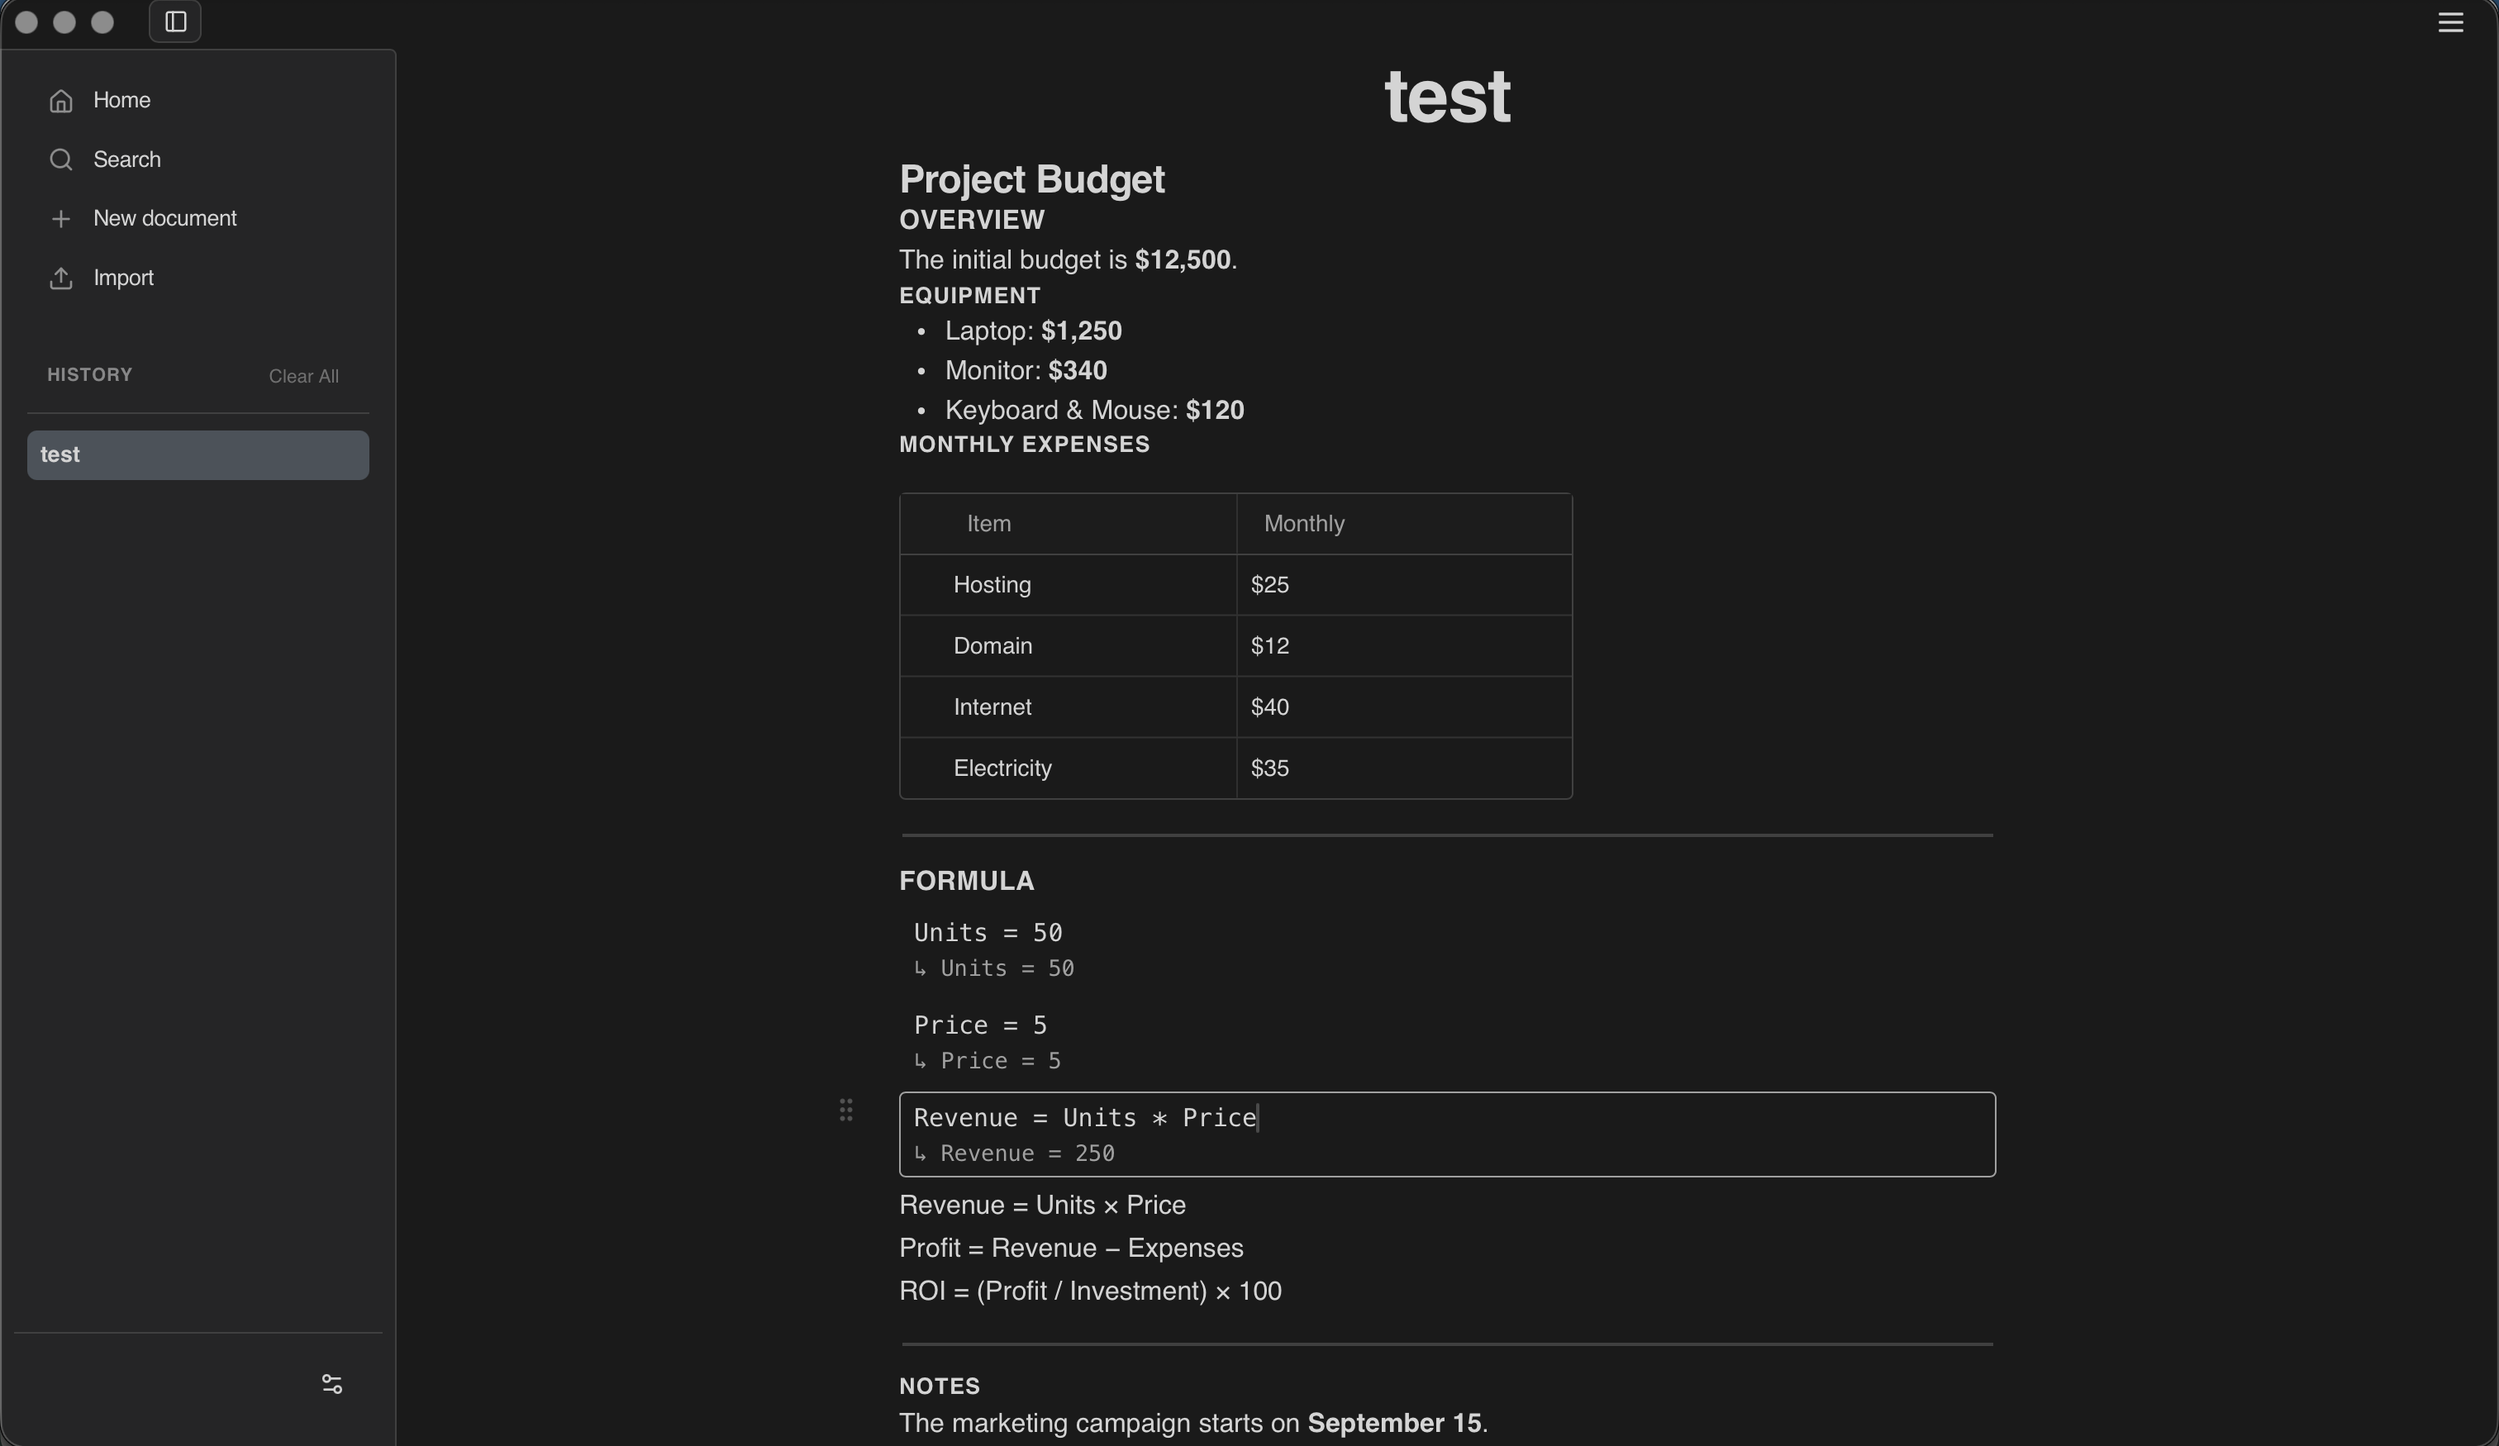
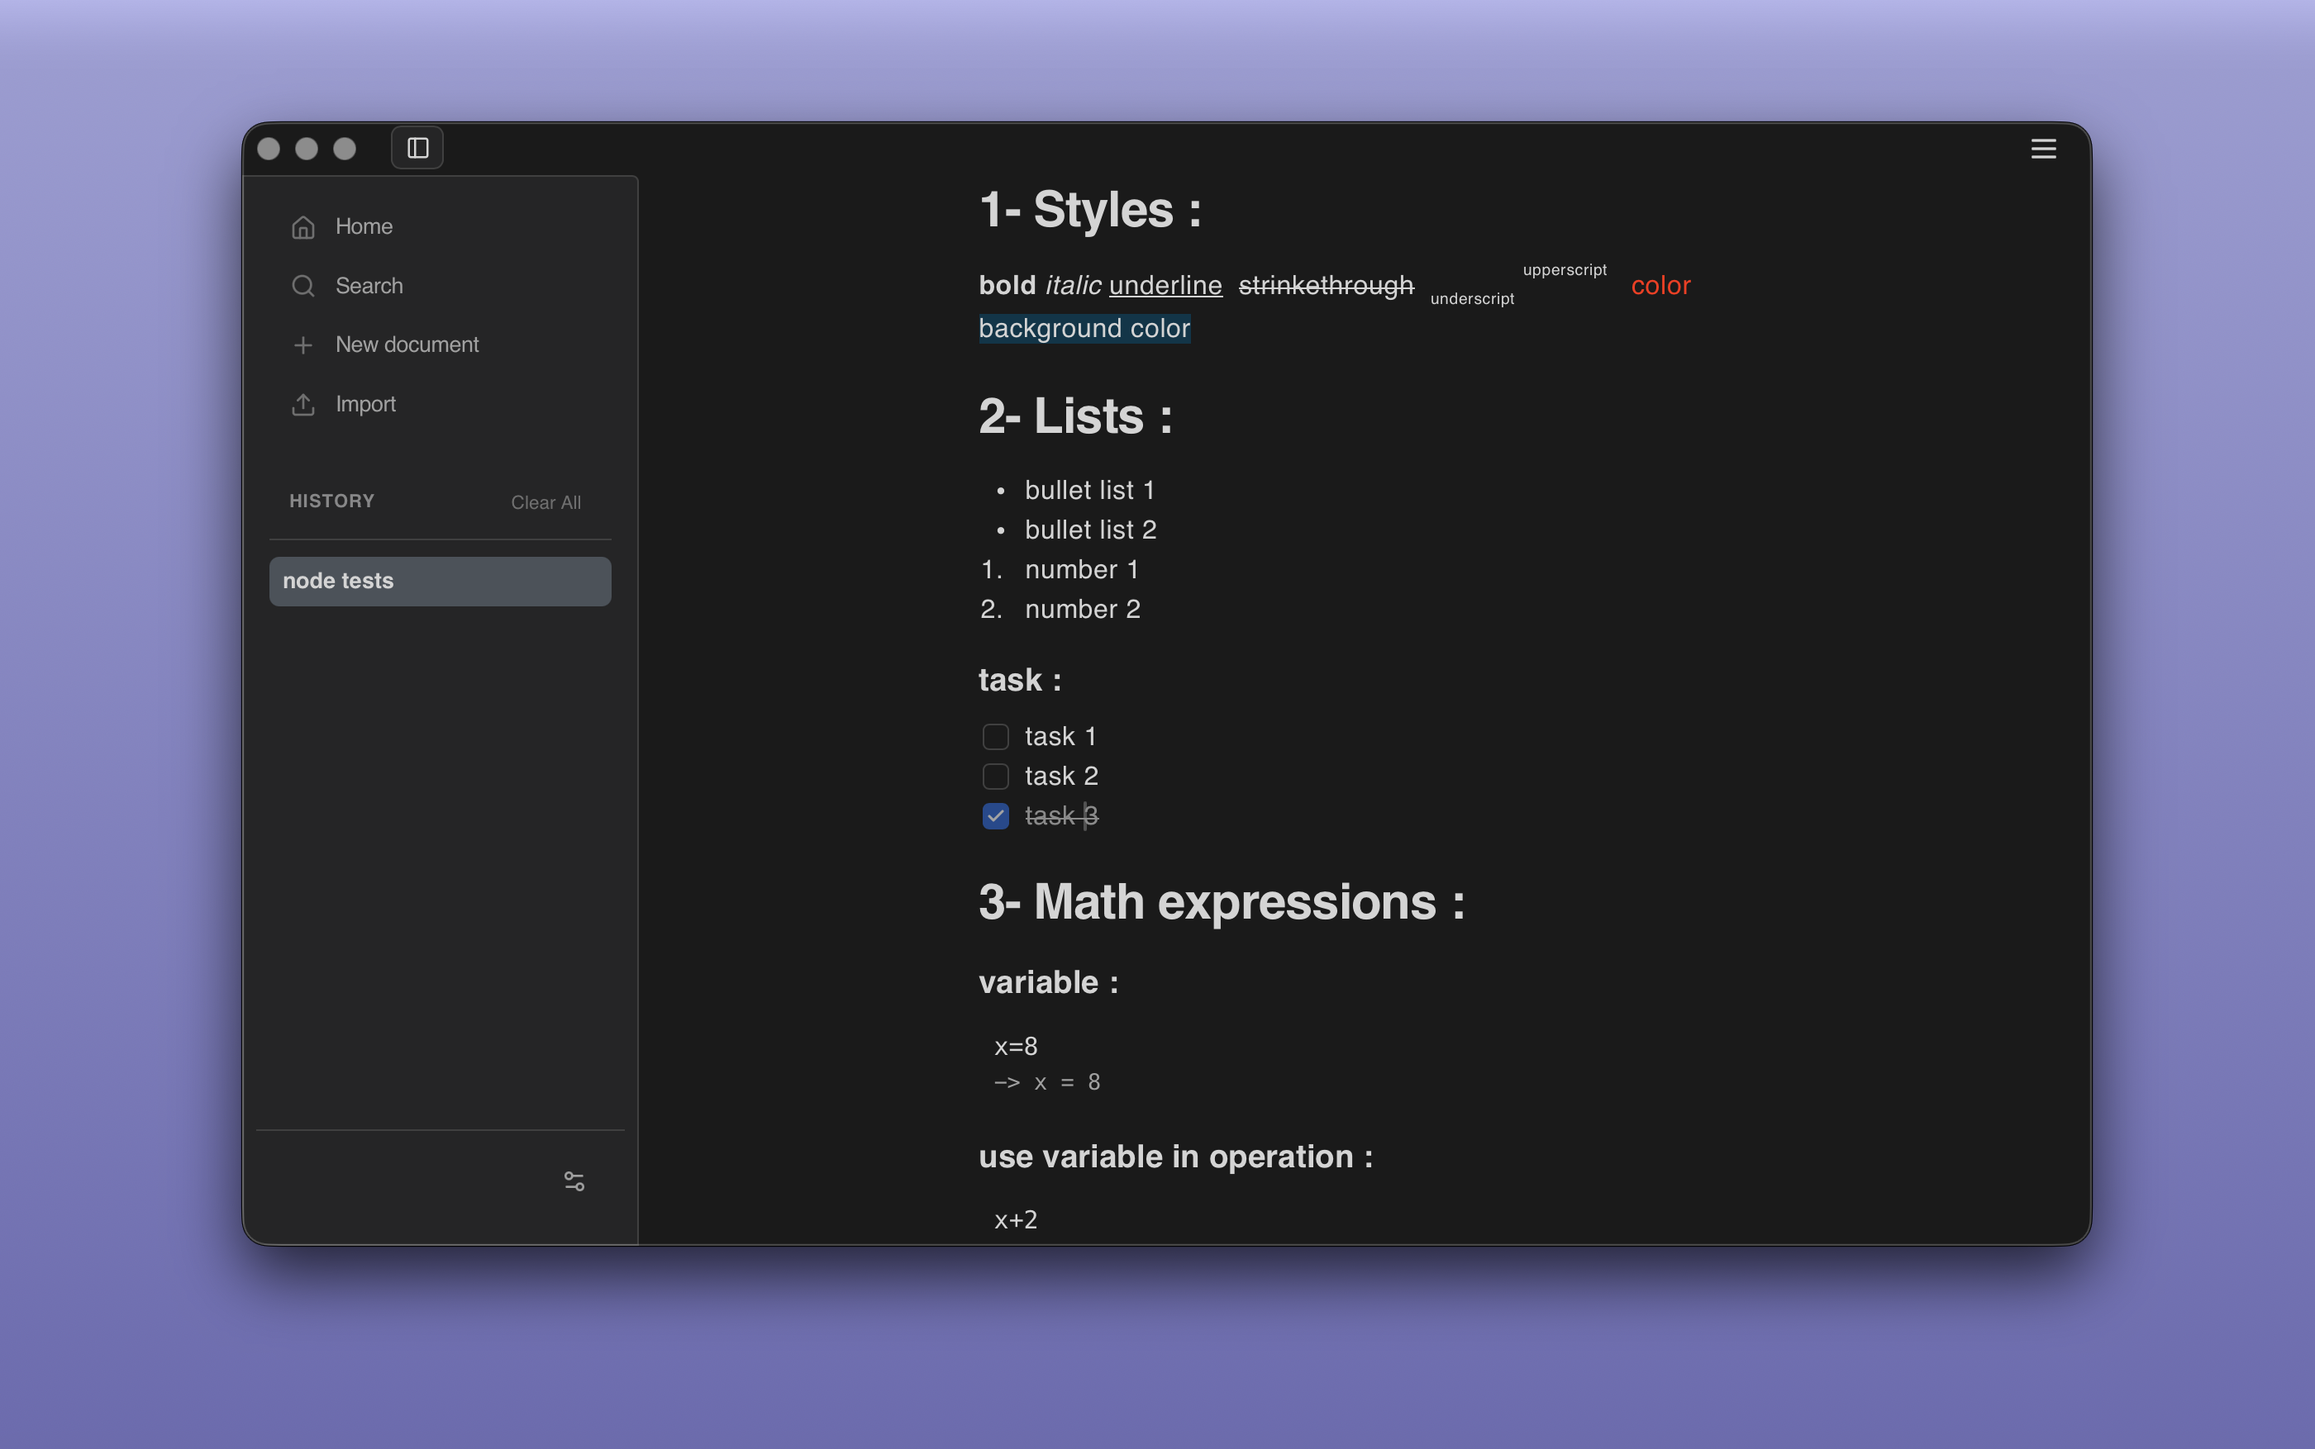
update readme

diff --git a/README.md b/README.md
@@ -1,9 +1,5 @@
 <p align="center">
-  <img src="assets/logo_1024.png" alt="ANQL Icon" height="60" />
-</p>
-
-<p align="center">
-  The intuitive workspace where ideas become actions.
+  <img src="assets/logo_1024.png" alt="ANQL Icon" height="120" />
 </p>
 
 <p align="center">
@@ -12,7 +8,7 @@
 </p>
 
 <p align="center">
-  <a href="#overview">Overview</a> | <a href="#gallery">Gallery</a> | <a href="#features">Features</a> | <a href="#tech-stack">Tech Stack</a> | <a href="#development">Development</a>
+  <a href="#overview">Overview</a> | <a href="#features">Features</a> | <a href="#development">Development</a> | <a href="#platform-support">Platform Support</a> | <a href="#community">Community</a>
 </p>
 
 <br />
@@ -23,7 +19,7 @@ ANQL is a visual workspace designed for productive work. Ideal for professionals
 
 ![Overview](assets/overview.png)
 
-## Gallery
+### Gallery
 
 <p align="center">
   <img src="assets/overview 1.png" alt="ANQL Overview 1" width="45%" />
@@ -70,25 +66,19 @@ ANQL is currently in active development and may be unstable at times. New featur
 
 **Upcoming Focus**: We are placing special emphasis on enhancing the Math node to support advanced calculations, statistical analysis, plotting, and graph generation - all while maintaining the seamless note-taking experience that makes ANQL a productive workspace.
 
-## Platform Support
-
-Currently, ANQL is tested and optimized for macOS only. Windows and Linux support will be available soon.
-
-## Download
-
-Download the macOS binary: [GitHub releases](https://github.com/anqlproject/anql/releases/tag/0.1.0)
-
-## Community
-
-Join our [Discord server](https://discord.gg/z5Jgg9m83) for discussions, report issues, or request new features.
-
-## Tech Stack
+### Tech Stack
 
 - **Tauri** - Cross-platform desktop application framework
 - **SQLite** - Local database storage
 - **Lexical** - Rich text editing engine
 - **React** - UI framework
 
-## Version
+## Platform Support
 
-Current version: 0.1.0
+Currently, ANQL is tested and optimized for macOS only. Windows and Linux support will be available soon.
+
+Download the macOS binary: [GitHub releases](https://github.com/anqlproject/anql/releases/tag/0.1.0)
+
+## Community
+
+Join our [Discord server](https://discord.gg/z5Jgg9m83) for discussions, report issues, or request new features.
